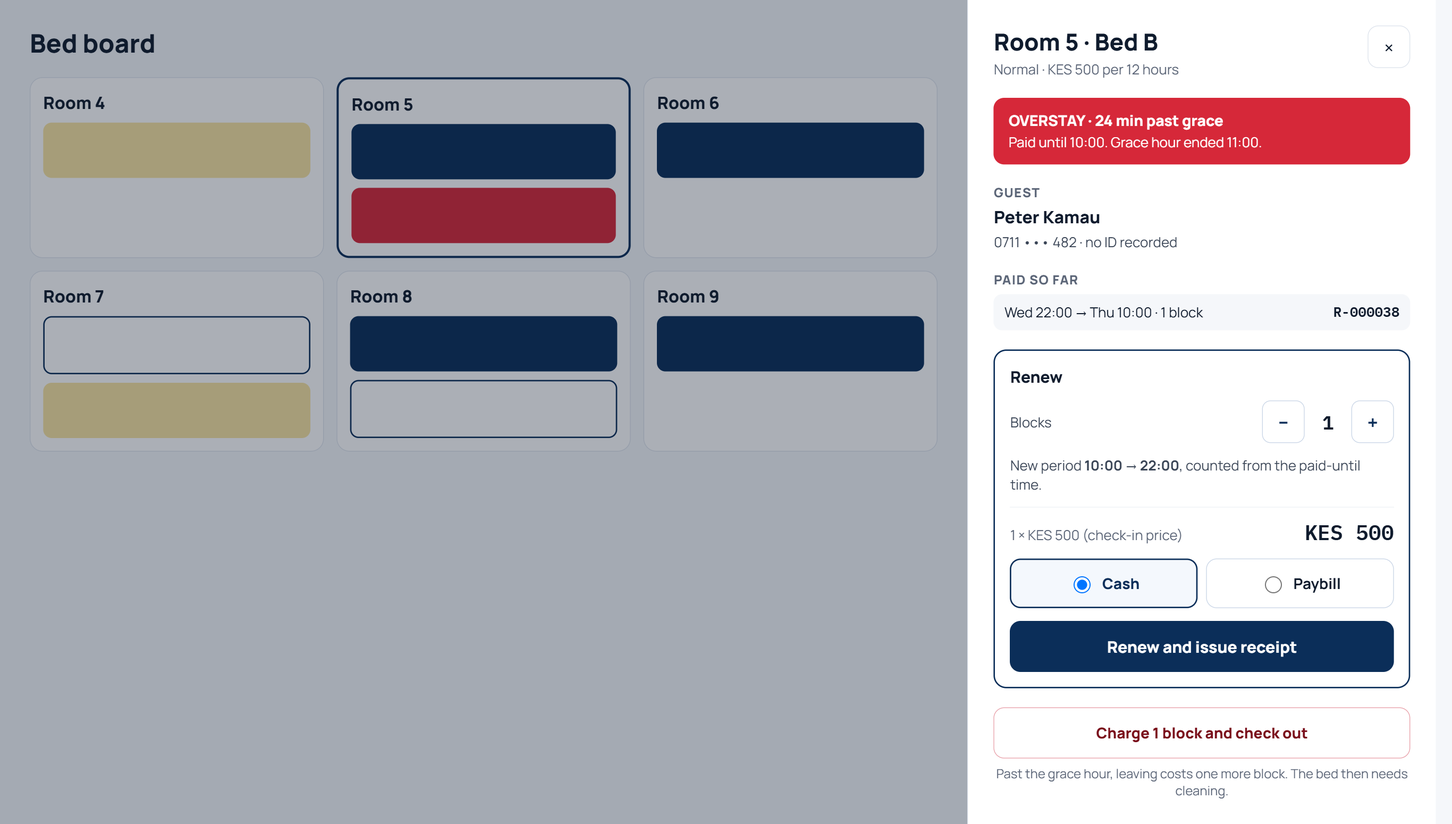
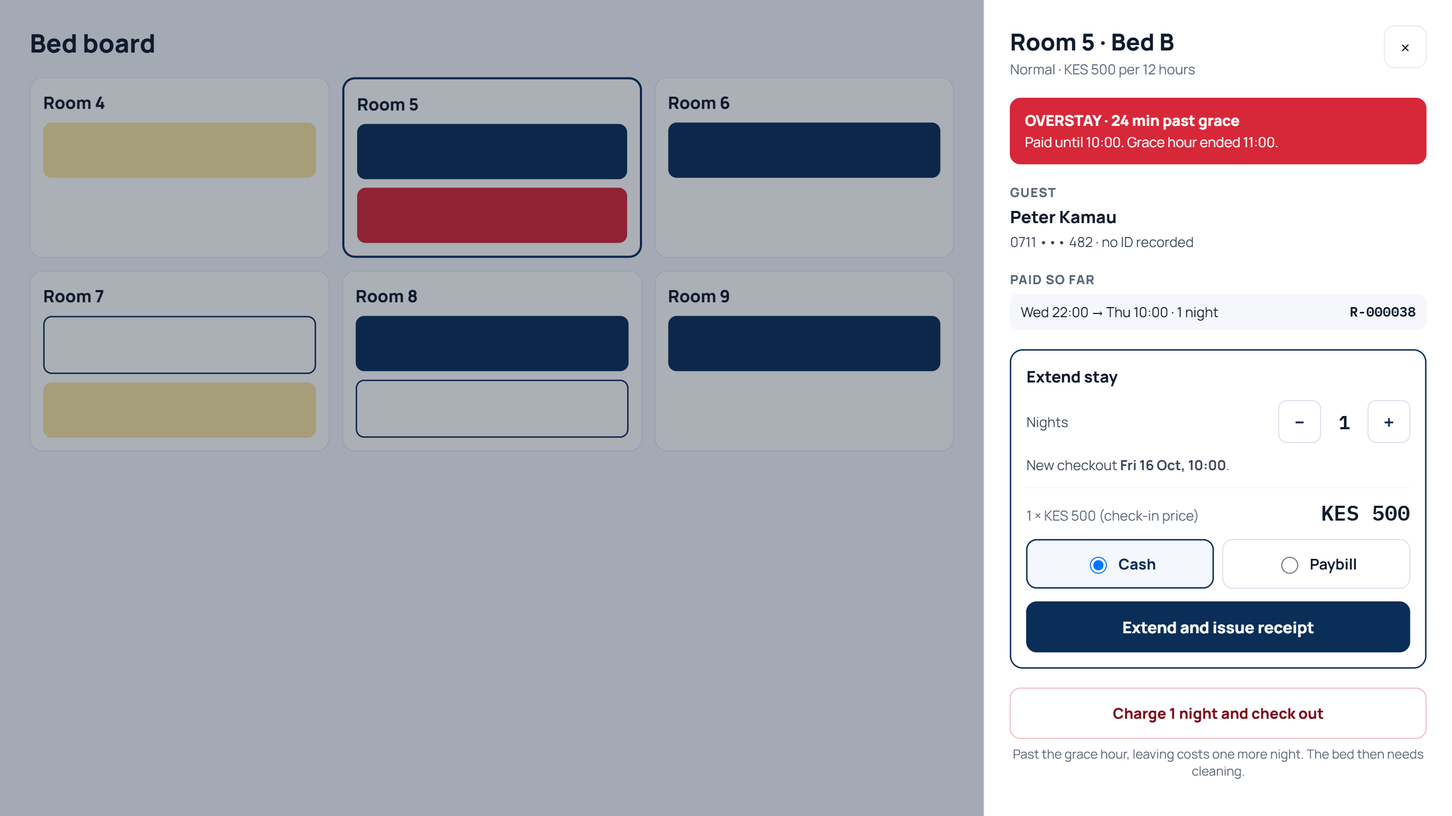
📝 Owner's per-night rules: skill, PRD and design
- Per night with checkout at 10:00 the day after arrival, plus a 1-hour grace period
- Refunds of unused nights: requested, then approved or rejected by an admin, then paid
- Skill folder renamed lodging_rules → lodging-rules

diff --git a/lodging_pos/.claude/skills/lodging-rules/SKILL.md b/lodging_pos/.claude/skills/lodging-rules/SKILL.md
@@ -1,0 +1,149 @@
+---
+name: lodging-rules
+description: Business rules for lodging_pos — per-bed, per-night pricing with a fixed 10:00 checkout the day after arrival, grace period and overstay, extensions, late-checkout charge, admin-approved refunds for unused prepaid nights, bed statuses, payments, shifts, voids and permissions. Use before writing or changing any code or test that touches stays, payments, refunds, pricing, beds, occupancy, housekeeping, shifts or access control.
+---
+
+# Lodging business rules
+
+These rules are the product. They live as pure Dart functions in `lib/features/<feature>/domain/`, each covered by unit tests, and are never re-implemented in screens or repositories. When a requirement seems to conflict with a rule here, stop and ask; do not pick one silently.
+
+All wall-clock rules (10:00, dates) are in **Africa/Nairobi** local time. Store UTC; convert with the injected `Clock`/time-zone helper before applying a rule. Nairobi has no daylight saving, but still use calendar-date arithmetic, not "+24 h", so the code is correct by construction. Domain code uses the pure-Dart `ClockTime(hour, minute)` from `core/clock`, never Flutter's `TimeOfDay`.
+
+## Settings used by these rules
+
+| Key | Default | Range |
+|---|---|---|
+| `checkout_time` | `10:00` | 06:00–14:00 |
+| `grace_minutes` | `60` | 0–180 |
+
+There is **no** early-arrival cut-off: the owner confirmed that every arrival, whatever the time, checks out at 10:00 on the following calendar day.
+
+## Rules
+
+| ID | Rule |
+|---|---|
+| BR-1 | Price is per bed, **per night**. Every night ends at `checkout_time` (10:00). Arrival time never changes the price. |
+| BR-1a | **First checkout** = 10:00 on the calendar day **after** the arrival date, for any arrival time (03:00 Thu → Fri 10:00; 23:59 Thu → Fri 10:00; 00:30 Fri → Sat 10:00). |
+| BR-2 | Category prices are per night (seed: VIP 1000, Deluxe 700, Comfort 600, Normal 500). Only users with `editPrices` permission change them; they can change at any time. |
+| BR-3 | `price_per_night` is copied from the category at check-in and reused for every extension, late-checkout charge and refund of that stay. Price changes affect new check-ins only. |
+| BR-4 | One guest per bed. Strangers may share a 2-bed room. One guest may pay for both beds: two stays, one payment. |
+| BR-5 | A bed can be let only if it is active, Available and `clean`. It becomes Occupied only when the check-in transaction (stay + payment + charges) commits. |
+| BR-6 | `paid_until` = first checkout + (nights − 1) days, at 10:00. A bed is **Overstay** when now > `paid_until` + `grace_minutes` and the stay is active. |
+| BR-7 | **Extension:** adds n nights from `paid_until`: new `paid_until` = old `paid_until` + n days. Allowed any time the stay is active, including during an overstay. |
+| BR-7a | **Late checkout:** checking out after `paid_until` + grace first charges the nights that have started (normally 1), at the stay's price, as a `late_checkout` charge with its own payment and receipt. Between 10:00 and 11:00 checkout is free. The charge moves `paid_until` forward (invariant: `paid_until` = latest charge `period_end`). |
+| BR-8 | **Early checkout refund:** nights not yet started are refunded at the stay's price. The night in progress is never refunded. The amount is calculated by the system and cannot be typed or changed by anyone. |
+| BR-8a | **Refunds need admin approval.** At early checkout the stay closes at once (bed → Available, not_cleaned) and a refund **request** is created for the calculated amount. Only users with `approveRefund` (admin) can approve or reject it; a rejection needs a reason. The approver cannot change the amount. |
+| BR-8b | **Paying an approved refund:** a user with `payRefund` records the payout from the **cash drawer** or the **Paybill account** (method `cash` or `paybill`; `paybill` requires the M-Pesa transaction code of the money sent). The payout needs an open shift, gets a receipt number from the same counter, and is counted in that shift: cash payouts reduce expected cash, Paybill payouts reduce the Paybill total. Requested and approved-but-unpaid refunds appear in the alerts. |
+| BR-9 | Checkout → bed `not_cleaned`. Only completing a housekeeping task sets `clean`. A reactivated bed or room starts `not_cleaned`; a new bed starts `clean`. |
+| BR-10 | An M-Pesa code can be used once across all payments and refund payouts. Required for `paybill`, null for `cash`. Methods are `cash` and `paybill` everywhere; screens label `paybill` as "M-Pesa". |
+| BR-11 | Stays, payments, charges, refunds, refund decisions and audit entries are never edited or deleted by users. Corrections are `voids` rows with a reason, by users with `voidRecords` permission. Voided payments and refund payouts are excluded from totals. |
+| BR-12 | Every payment and refund payout belongs to an open shift. No open shift → no check-in, extension, late-checkout charge, payment or refund payout. (Requesting a refund at checkout also requires the open shift, because checkout does.) |
+| BR-13 | **Permissions are checked by action**, through one permission map (`Permission` enum → allowed roles). Never compare `role == admin` in features. Roles today: `admin`, `receptionist`; a `supervisor` role will be added later by editing only the map. |
+
+## Refund lifecycle
+
+```
+early checkout ──► requested ──(admin approves)──► approved ──(payout recorded)──► paid
+                       └──────(admin rejects + reason)──► rejected
+```
+
+- Status is derived, never stored as free text: no decision row → `requested`; decision `rejected` → `rejected`; decision `approved` and no payout → `approved`; payout recorded → `paid`.
+- The admin can decide on the desk PC (admin sign-in) now, and from the phone once sync exists (sprint 2).
+- Totals count a refund only when it is **paid**, in the shift that paid it.
+
+## Calculations
+
+```dart
+// Inputs in Africa/Nairobi local time; convert results back to UTC for storage.
+
+DateTime firstCheckout(DateTime checkInLocal, ClockTime checkout) {
+  final arrivalDate = DateTime(checkInLocal.year, checkInLocal.month, checkInLocal.day);
+  return _at(_addDays(arrivalDate, 1), checkout);
+}
+
+DateTime paidUntil(DateTime firstCheckout, int nights) => _addDays(firstCheckout, nights - 1);
+
+int totalDue(int nights, int pricePerNight) => nights * pricePerNight;
+
+// Extension: period_start = paidUntil, period_end = _addDays(paidUntil, n).
+
+enum Occupancy { available, occupied, overstay }
+
+Occupancy occupancyOf({Stay? activeStay, required DateTime now, required int graceMinutes}) {
+  if (activeStay == null) return Occupancy.available;
+  final overstayAt = activeStay.paidUntil.add(Duration(minutes: graceMinutes));
+  return now.isAfter(overstayAt) ? Occupancy.overstay : Occupancy.occupied;
+}
+
+/// Nights to charge before a checkout at [now]: 0 if within grace, else every night started.
+int lateNights(DateTime paidUntil, DateTime now, int graceMinutes) {
+  final after = now.difference(paidUntil.add(Duration(minutes: graceMinutes)));
+  if (after <= Duration.zero) return 0;
+  return after.inDays + 1;
+}
+
+/// Nights used when leaving at [now] for a stay with [nightsPaid] nights.
+/// Night 1 is always used; night k (k ≥ 2) counts once now is past its start + grace.
+int nightsUsed(DateTime firstCheckout, DateTime now, int graceMinutes, int nightsPaid) {
+  final elapsed = now.difference(firstCheckout.add(Duration(minutes: graceMinutes)));
+  final used = elapsed <= Duration.zero ? 1 : 2 + elapsed.inDays;
+  return used > nightsPaid ? nightsPaid : used;
+}
+
+int refundNights(int nightsPaid, int used) => nightsPaid - used;      // 0 → no refund request
+int refundAmount(int refundNights, int pricePerNight) => refundNights * pricePerNight;
+
+bool canLet(Bed bed, Occupancy occ) =>
+    bed.isActive && occ == Occupancy.available && bed.cleanliness == Cleanliness.clean;
+
+// A room is not_cleaned if any of its active beds is not_cleaned.
+```
+
+Occupancy is never stored. It is always derived from the active stay and the `Clock`.
+
+## Statuses
+
+| Event | Occupancy after | Cleanliness after |
+|---|---|---|
+| Check-in committed | Occupied | unchanged (must be clean before) |
+| now > paid_until + grace | Overstay | unchanged |
+| Extension | Occupied (paid_until moves forward) | unchanged |
+| Checkout (incl. late charge or refund request) | Available | not_cleaned |
+| Housekeeping task completed | unchanged | clean |
+| Stay voided by admin | Available | not_cleaned |
+
+## Required test cases
+
+Every one of these must exist as a unit test in the matching `domain/` test file (times are Nairobi local):
+
+1. Check-in Thu 19:00, 1 night → checkout Fri 10:00; total = price.
+2. Check-in Thu 13:00 → Fri 10:00. Thu 07:00 → Fri 10:00. Thu 09:59 → Fri 10:00.
+3. Check-in Thu 03:00 → **Fri** 10:00. Thu 00:30 → Fri 10:00. Wed 23:59 → Thu 10:00.
+4. Check-in Thu 15 Oct 19:00, 10 nights → paid_until Sun 25 Oct 10:00; total = 10 × price.
+5. paid_until 10:00: now 10:59 → Occupied; now 11:00 → Occupied; now 11:00:01 → Overstay.
+6. Extension of 1 night entered at 11:40 with paid_until Fri 10:00 → new paid_until Sat 10:00.
+7. Category price changes 700 → 750 after check-in → extension, late charge and refund all use 700.
+8. Checkout at 10:45 (within grace) → no late charge. Checkout at 11:30 → 1 night charged and paid_until moves forward. Checkout two days late at 12:00 → 3 nights charged.
+9. 10 nights from Thu 15 Oct 19:00, checkout Wed 21 Oct 15:00 → nights used 7, refund request 3 × price.
+10. 10 nights from Thu 15 Oct 19:00, checkout Fri 16 Oct 10:30 → used 1, refund 9. Checkout Fri 16 Oct 11:30 → used 2, refund 8.
+11. 1-night stay, early checkout → refund 0, no refund request created.
+12. Refund lifecycle: new request → `requested`; receptionist cannot approve; admin approves → `approved`; admin rejects without reason → refused; payout before approval → refused; payout after approval → `paid`; second payout → refused; approver cannot change the amount.
+13. Cash payout reduces the paying shift's expected cash; Paybill payout reduces its Paybill total; requested/approved-unpaid refunds change no totals; voided payout is excluded.
+14. Both beds of a 2-bed room for one guest → two stays, one payment, amount = sum of both charges.
+15. Bed not_cleaned → cannot let. Bed inactive → cannot let. Bed with active stay → cannot let.
+16. Paybill without code → rejected. Reused code (in payments or refund payouts) → rejected. Cash with code → rejected.
+17. Payment or refund payout without an open shift → rejected.
+18. Permission map: receptionist cannot edit prices, void, manage users or approve refunds; admin can. Every `Permission` is assigned to at least one role. Features call the map, never compare roles.
+
+## Receipts
+
+- Number format `R-000041` (prefix from settings, 6 digits, gap-free per device via `receipt_counter`, incremented in the payment or refund-payout transaction).
+- Payment receipt: lodging name header; receipt number, guest, room and bed, category, nights × price, check-in, **check out by** (date, 10:00), amount, method, M-Pesa code, receptionist, date/time.
+- Refund receipt (printed at payout): same layout, titled `REFUND`, shows nights refunded × price as a negative amount, the original receipt numbers, who approved it and who paid it.
+- Reprints after the first are marked "Copy" (`print_count`).
+
+## Guests
+
+- Required: full name, phone. Optional: ID type (`national_id`, `passport`, `alien_id`) and ID number.
+- If an ID number is entered, ID type is required and the pair must be unique.
+- Search by phone or ID number, as the user types.

diff --git a/lodging_pos/docs/prd.md b/lodging_pos/docs/prd.md
@@ -4,7 +4,7 @@ Version 1.0 · Oct 13, 2026 · @Bobe cheda
 
 ## Product summary
 
-A front desk and admin system for a lodging that charges guests per bed, per 12-hour block. The front desk app works offline on the reception PC; the owner manages and monitors the business from his phone or PC, from anywhere.
+A front desk and admin system for a lodging that charges guests per bed, per night, with checkout at 10:00. The front desk app works offline on the reception PC; the owner manages and monitors the business from his phone or PC, from anywhere.
 
 **Problem**
 
@@ -15,7 +15,7 @@ A front desk and admin system for a lodging that charges guests per bed, per 12-
 
 **Solution**
 
-Every let bed is tied to a guest, a payment, a receptionist and a shift. The system enforces pricing, block timing, overstay and cleaning rules, keeps an append-only audit trail, and gives the owner a live dashboard of revenue, expenses, profit and occupancy.
+Every let bed is tied to a guest, a payment, a receptionist and a shift. The system enforces pricing, checkout times, overstay and cleaning rules, keeps an append-only audit trail, and gives the owner a live dashboard of revenue, expenses, profit and occupancy.
 
 The detailed data model and architecture are in the companion doc, *Lodging Management System — Requirements & Plan*.
 
@@ -85,11 +85,11 @@ Each story lists the conditions that must all hold before it counts as done.
 - New guest requires full name and phone; ID type (National ID, Passport, Alien ID) and number are optional.
 - An ID number, when entered, cannot be registered twice.
 
-**FD-4 Check a guest in.** As a receptionist, I want to let a bed for a number of blocks so that the guest gets a bed and the money is recorded.
+**FD-4 Check a guest in.** As a receptionist, I want to let a bed for a number of nights so that the guest gets a bed and the money is recorded.
 
 - Only beds that are Available and Clean can be chosen.
 - Choosing both beds of a 2-bed room creates two stays on one receipt.
-- Entering the number of blocks shows the total and expected checkout (check-in + 12 h × blocks).
+- Entering the number of nights shows the total and the checkout date and time (always 10:00).
 - The bed becomes Occupied only after payment is saved; cancelling leaves it Available.
 - The price used is the category price at that moment and does not change later.
 
@@ -102,19 +102,19 @@ Each story lists the conditions that must all hold before it counts as done.
 **FD-6 Issue a receipt.** As a receptionist, I want a receipt for each payment so that the guest has proof.
 
 - Generated automatically after payment, with the next sequential number.
-- Header shows the lodging name only; body shows receipt number, guest, room and bed, category, blocks, check-in, checkout, amount, method, M-Pesa code, receptionist.
+- Header shows the lodging name only; body shows receipt number, guest, room and bed, category, nights, check-in, check out by, amount, method, M-Pesa code, receptionist.
 - Can be viewed on screen and saved as PDF; reprints are marked "Copy".
 
-**FD-7 Renew or flag an overstay.** As a receptionist, I want overstays flagged so that no extra time goes unpaid.
+**FD-7 Extend a stay or flag an overstay.** As a receptionist, I want overstays flagged so that no extra time goes unpaid.
 
 - One hour after expected checkout, the bed shows Overstay without anyone acting.
-- Renewal adds blocks starting from the original expected checkout, with a new payment and receipt.
+- Extending adds nights from the paid-until 10:00, with a new payment and receipt. Checking out after the grace hour first charges one night.
 - Overstay clears only by renewal or checkout.
 
 **FD-8 Check a guest out.** As a receptionist, I want to close a stay so that the bed can be cleaned and let again.
 
 - Checkout records the actual time; the bed becomes Available and Not cleaned.
-- Early checkout gives no refund; unused blocks are forfeited.
+- Early checkout closes the stay at once and creates a refund request for nights not yet started, at the check-in price. Once the admin approves, the receptionist pays it from the cash drawer or the Paybill account (with the M-Pesa code) and a refund receipt is printed; the payout reduces that shift's cash or Paybill total.
 
 **FD-9 Assign housekeeping.** As a receptionist, I want to assign a dirty bed to a housekeeper so that it gets cleaned.
 
@@ -156,8 +156,8 @@ The admin works online from phone or PC; every change reaches the front desk on 
 
 **AD-3 Set prices and rules.** As the owner, I want to set prices so that the desk always charges correctly.
 
-- Set the price per 12-hour block for each category.
-- Set the block length (12 hours) and grace period (1 hour).
+- Set the price per night for each category; prices can be changed at any time.
+- Set the checkout time (10:00) and the grace period (1 hour).
 - New prices apply to check-ins after the desk syncs; existing stays keep their price.
 - Every change is in the audit trail with old and new values.
 
@@ -179,7 +179,7 @@ The admin works online from phone or PC; every change reaches the front desk on 
 
 **AD-7 Void a wrong entry.** As the owner, I want to correct mistakes without hiding them.
 
-- Only the admin can void a stay or payment, and a reason is required.
+- Only the admin can void a stay or payment, and a reason is required. Only the admin can approve or reject a refund request (a rejection needs a reason); the amount cannot be changed.
 - The original stays visible, marked void; totals exclude it.
 
 **AD-8 Review the audit trail.** As the owner, I want to see who did what so that I can investigate problems.
@@ -202,14 +202,14 @@ These rules are enforced by the system and override anything a user enters.
 
 | ID | Rule |
 | --- | --- |
-| BR-1 | Price is per bed, per 12-hour block from check-in. 24 hours = 2 blocks. Day and night blocks cost the same. |
-| BR-2 | Starting prices per block: VIP KES 1,000, Deluxe 700, Comfort 600, Normal 500. Only the admin changes them. |
-| BR-3 | The price is locked at check-in and also applies to renewals of that stay; a price change affects new check-ins only. |
+| BR-1 | Price is per bed, per night. Checkout is always 10:00. Every arrival, at any time, checks out at 10:00 the following day. Arrival time does not change the price. |
+| BR-2 | Starting prices per night: VIP KES 1,000, Deluxe 700, Comfort 600, Normal 500. Only the admin changes them. |
+| BR-3 | The price is locked at check-in and also applies to extensions and refunds of that stay; a price change affects new check-ins only. |
 | BR-4 | One guest per bed. Strangers may share a 2-bed room; one guest may pay for both beds. |
 | BR-5 | A bed can be let only when Available and Clean, and becomes Occupied only once payment is saved. |
-| BR-6 | Grace period is 1 hour after expected checkout; then the bed shows Overstay. |
-| BR-7 | A renewal starts at the original expected checkout time. |
-| BR-8 | No refunds; unused blocks on early checkout are forfeited. |
+| BR-6 | Grace period is 1 hour after the 10:00 checkout; from 11:00 the bed shows Overstay. |
+| BR-7 | An extension adds nights from the paid-until 10:00. Leaving after the grace hour costs one more night. |
+| BR-8 | Early checkout refunds nights not yet started. The night in progress is never refunded. The system calculates the amount; the admin must approve it before it is paid from the cash drawer or the Paybill account, with a refund receipt. |
 | BR-9 | Checkout makes the bed Available and Not cleaned; only completed housekeeping makes it Clean. |
 | BR-10 | Each M-Pesa transaction code can be used once. |
 | BR-11 | Stays, payments and audit entries are never edited or deleted; the admin voids with a reason. |
@@ -223,7 +223,7 @@ These apply across the whole product.
 | --- | --- |
 | Offline | Every front desk story works with no internet. Changes queue locally and sync in order when online, with no duplicates and no loss. |
 | Sync | While online, desk changes reach the cloud within 5 minutes; admin settings reach the desk within 5 minutes. |
-| Time | Block, grace and overstay calculations use the desk PC clock, checked against the server time on each sync; a gap over 5 minutes shows a warning. |
+| Time | Checkout, grace, overstay and refund calculations use the desk PC clock, checked against the server time on each sync; a gap over 5 minutes shows a warning. |
 | Performance | Bed board loads in under 2 seconds; guest search returns in under 1 second; receipt PDF in under 3 seconds. |
 | Security | Passwords stored hashed; admin actions checked by the cloud, not just hidden in the app; data encrypted in transit; sessions time out after inactivity. |
 | Privacy | Guest ID data is personal data under the Data Protection Act 2019: only collected fields, visible to logged-in staff only, exportable only by the admin, kept for a period the owner sets. |
@@ -306,7 +306,7 @@ The main risks are people bypassing the system and the desk PC failing; both hav
 
 - One front desk PC; a second desk device is out of scope.
 - One admin account (the owner).
-- No bookings, no overstay fines and no refunds in the MVP.
+- No bookings or overstay fines in the MVP. Refunds only for prepaid nights not yet started, and only after admin approval. Supervisor role to be designed with the owner after the MVP; permissions are checked per action so it can be added.
 
 ## Approval
 

diff --git a/lodging_pos/docs/design.md b/lodging_pos/docs/design.md
@@ -77,7 +77,7 @@ Overstays are also listed in a red-tint alert bar at the top of the bed board, w
 - **Inputs:** white, 1px `fieldBorder`, radius 10, height 44–48, label above in 13/700. Focused/selected: 1.5px marine.
 - **Money input:** "KES" prefix in mono muted, value in mono 600.
 - **Segmented choice (Cash / Paybill):** two equal radio cards; selected = 1.5px marine border + `marineTintStrong` + marine 800 text.
-- **Stepper (blocks):** − / value (mono 22) / +, buttons 44×44.
+- **Stepper (nights):** − / value (mono 22) / +, buttons 44×44. Label "Nights", helper "Checkout is 10:00".
 - **Info note:** `marineTint` background, marine text, info icon. **Warning chip:** butter. **Error:** `redTint` + `redText`.
 - **Icons:** simple 2px-stroke line icons (Material Symbols Rounded outline or Lucide). No emoji.
 
@@ -88,12 +88,14 @@ Overstays are also listed in a red-tint alert bar at the top of the bed board, w
 | FD-1 | Sign in and screen lock | Split screen: marine brand panel left, form right. Lock version shows a butter "Screen locked after 10 minutes idle" chip and "The open shift is kept." Username field empty. |
 | FD-1 | Open or resume shift | Centred card. Opening float in a large mono money input. Resume shows open-since and taken-so-far. Blocked shows "X's shift must be closed first" with Sign out / View bed board only. |
 | FD-2 | Bed board | Title + date/time, guest search, "New check-in" primary. Overstay alert bar. Filter chips with counts (All, Ready, Occupied, Overstay, Needs cleaning). Room grid. |
-| FD-3/4/5 | Check-in | Step pills (Bed ✓, Guest ✓, Stay & payment, Receipt). Three cards: Bed (shows why Bed B can't be added), Guest (search by phone/ID, returning guest card with masked ID), Stay & payment (blocks stepper, check-in/out times, total in mono, Cash/Paybill, M-Pesa code with "each code can be used once", "Save and issue receipt", note "The bed becomes Occupied only after this is saved"). |
-| FD-6 | Receipt | 400 wide. Black-and-white friendly (future thermal printer). Logo + lodging name, RECEIPT + number in mono, guest/room/category/from/check-out-by rows, blocks × price, total, paid by, M-Pesa code, served by. Footer: "Please check out by the time above. Unused time is not refunded." Reprints show "COPY". |
-| FD-7/8 | Bed panel — overstay | Red banner with minutes past grace. Guest, paid-so-far rows with receipt numbers. Renew card: blocks stepper, "New period 10:00 → 22:00, counted from the paid-until time", price labelled "(check-in price)", Cash/Paybill, primary button. Checkout after grace: "Charge 1 block and check out" (**rule pending owner confirmation**). |
+| FD-3/4/5 | Check-in | Step pills (Bed ✓, Guest ✓, Stay & payment, Receipt). Three cards: Bed (shows why Bed B can't be added), Guest (search by phone/ID, returning guest card with masked ID), Stay & payment (nights stepper, "Check-in Thu 19:00" and "Check out by Fri 16 Oct, 10:00", total in mono, Cash/Paybill, M-Pesa code with "each code can be used once", "Save and issue receipt", note "The bed becomes Occupied only after this is saved"). |
+| FD-6 | Receipt | 400 wide. Black-and-white friendly (future thermal printer). Logo + lodging name, RECEIPT + number in mono, guest/room/category/from/check-out-by rows, nights × price, total, paid by, M-Pesa code, served by. Footer: "Checkout is at 10:00." Reprints show "COPY". Refund receipts use the same layout titled REFUND, with a negative amount. |
+| FD-7/8 | Bed panel — overstay | Red banner with minutes past grace. Guest, paid-so-far rows with receipt numbers. Extend card: nights stepper, "New checkout Sat 17 Oct, 10:00", price labelled "(check-in price)", Cash/Paybill, primary button "Extend and issue receipt". Checkout after grace: "Charge 1 night and check out" (confirmed by owner). |
+| FD-8 | Bed panel — early checkout | Occupied bed with prepaid nights left. Shows nights paid, nights used (the current night counts as used), nights to refund and the refund amount — calculated, not editable. Button "Check out and request refund of KES 1,500". Marine-tint note: "The night in progress is not refunded. The owner must approve the refund before it is paid." After approval, a "Refunds to pay" list on the desk shows the guest, amount and phone; "Pay refund" asks Cash drawer or M-Pesa (Paybill account, with code) and prints the REFUND receipt. Butter chip on pending refunds: "Waiting for owner approval". |
+| AD-7 | Refund approval (owner) | In the owner's "Needs your attention" list and on an admin screen on the desk: guest, stay, nights used / refunded, amount, requested by and when. Two buttons: "Approve" (marine) and "Reject" (white, redText outline) which asks for a reason. Amount is read-only. |
 | FD-9 | Bed panel — needs cleaning | Butter banner with last checkout time, housekeeper dropdown, "Assign cleaning", then "Mark clean · sheets and towels changed". |
 | AD-2 | Rooms and beds | Table: room, floor, bed chips ("A · Deluxe"), status (ACTIVE / butter "CLOSED · REPAIRS"), Edit. Side form edits a room: number, floor, bed A/B with category selects. Deactivate disabled with red-tint reason when a bed has a guest. Note: "Changing a category affects new check-ins only." |
-| AD-3 | Prices and settings | Category table with KES money inputs; changed row highlighted with "was 700". Info note on price locking. Settings: lodging name, block hours (1–24), grace minutes (0–180), lock after (1–60), receipt prefix (1–4 letters) — each with its range under the field. |
+| AD-3 | Prices and settings | Category table with KES money inputs; changed row highlighted with "was 700". Info note on price locking. Settings: lodging name, checkout time (default 10:00, "every guest leaves by this time the day after arrival"), grace minutes (0–180), lock after (1–60), receipt prefix (1–4 letters) — each with its range under the field. Prices are "per night". |
 | AD-4 | Users and housekeepers | User rows with status (ACTIVE, butter "MUST SET PASSWORD", DISABLED greyed), Reset password, Disable (not on own row). "Add a receptionist" form: full name, username, temporary password. Housekeepers list + add form (name, optional phone). Phone numbers masked in lists. |
 | AD-5 | Owner dashboard (phone) | Marine header with sync time. Cards: collected today (cash/paybill split), beds right now (4 tiles in status styles), needs your attention (overstay, cash variance, bed cleaned with no stay), month revenue − expenses = profit, beds sold by category bars. Bottom nav: Today, Reports, Audit, Settings. |
 
